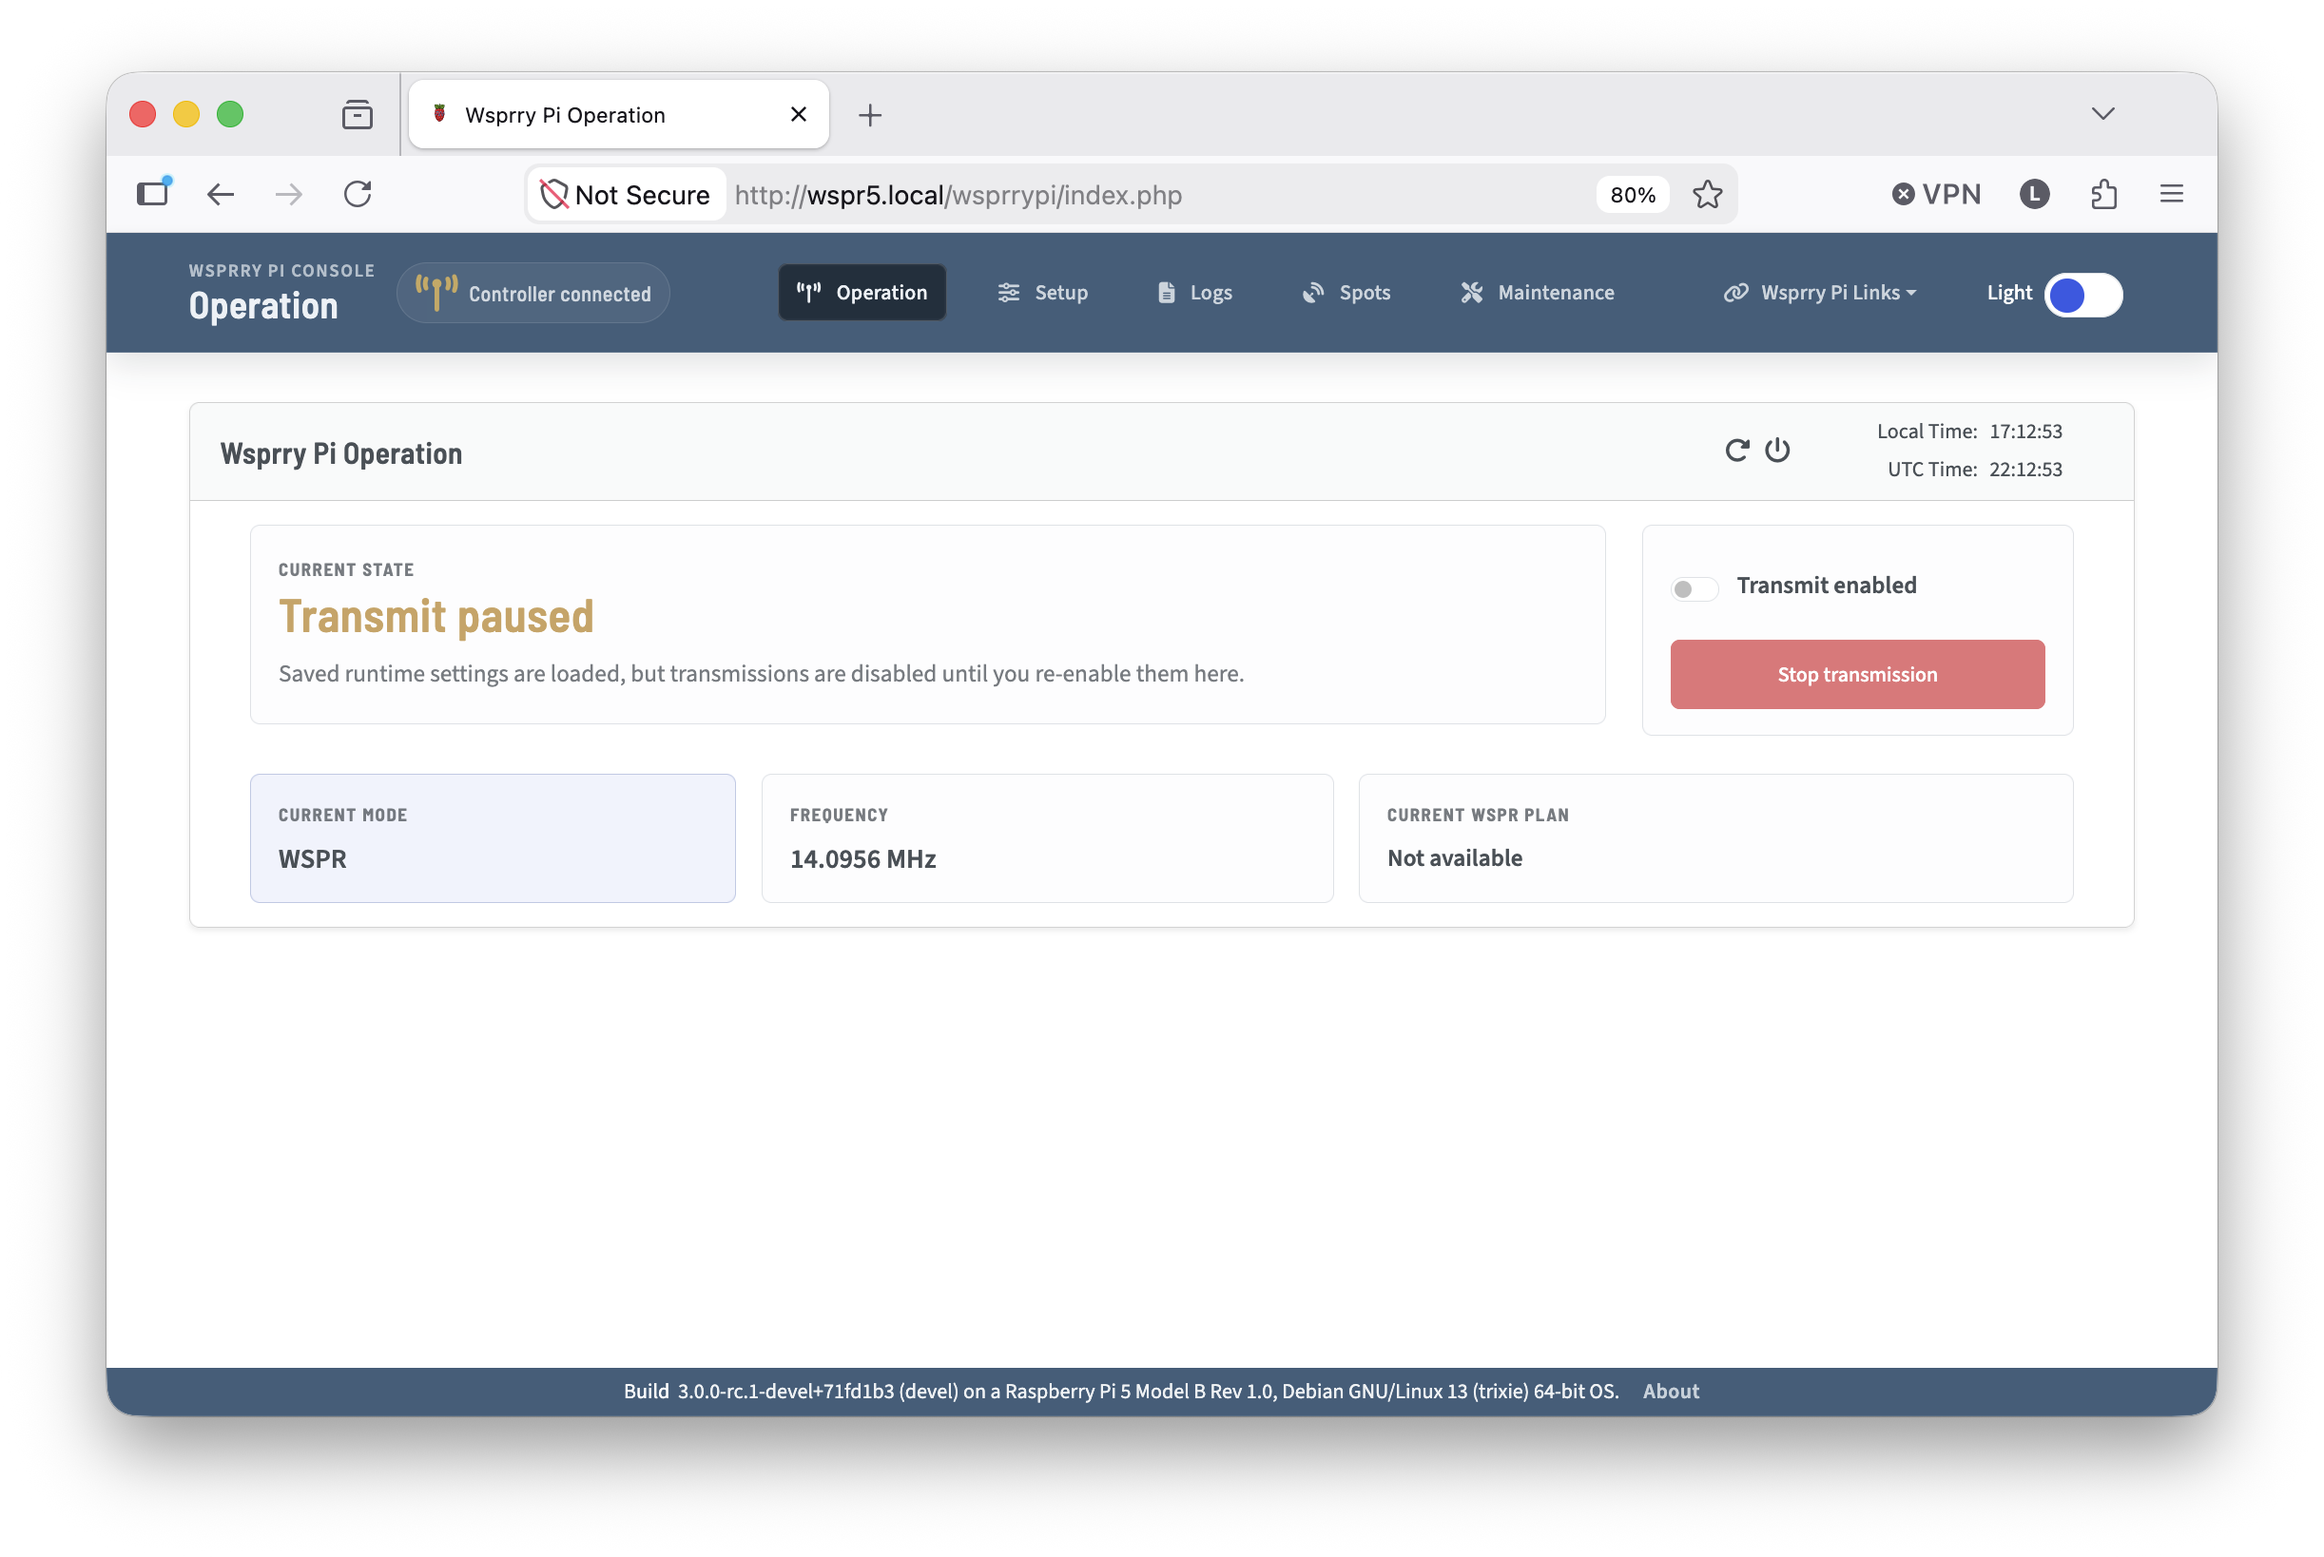
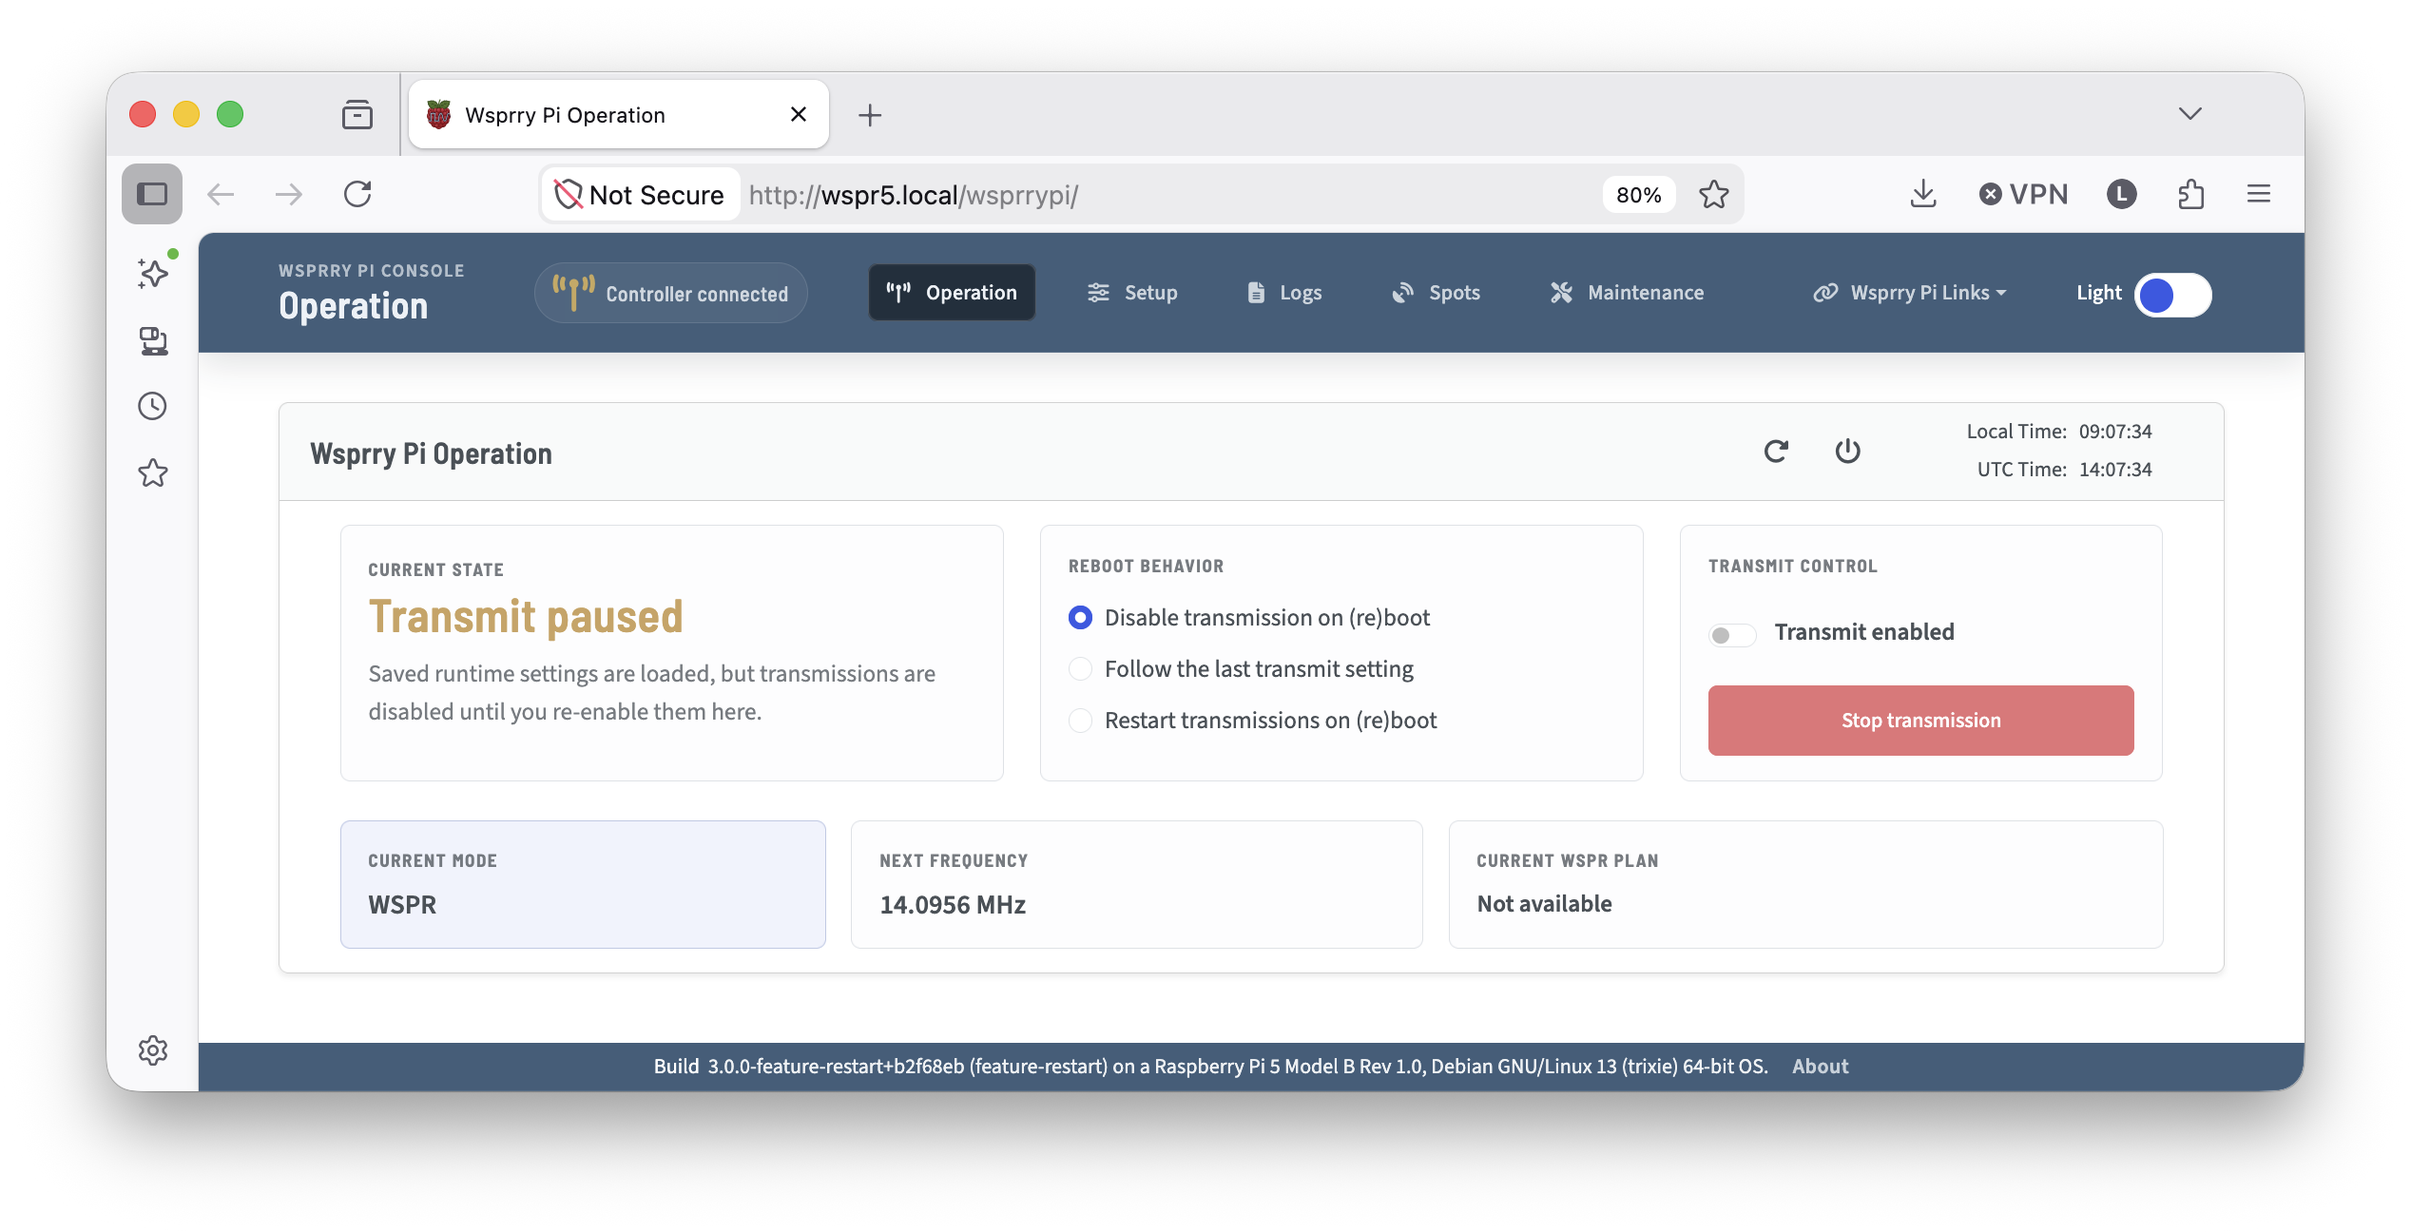
Explain 'Reboot Behavior'

diff --git a/docs/User_Interface/Operations/index.md b/docs/User_Interface/Operations/index.md
@@ -20,6 +20,14 @@ Within the Operations card are panels intended to be your quick reference to you
 
     ![Ready](ready.png)
 
+- **Reboot Behavior:** 
+
+    ![Reboot Behavior](reboot_behavior.png)
+
+  - *Disable transmission on (re)boot* means that any time the daemon is restarted (which includes a reboot), the transmission state will be disabled.  This is provided to protect against unexpected transmissions and potential damage to any PA finals.
+  - *Follow the last transmission setting* takes the transmission control from the last known state, and follows accordingly on daemon restart,
+  - *Restart transmission on (re)boot* will always enable transmissions, if the system can honor the configuration, when the daemon restarts.
+
 - **Transmission Controls:** This panel contains a switch to enable to disable transmissions as well as an emergency stop.
 
     ![Transmission Control](transmission_controls.png)
